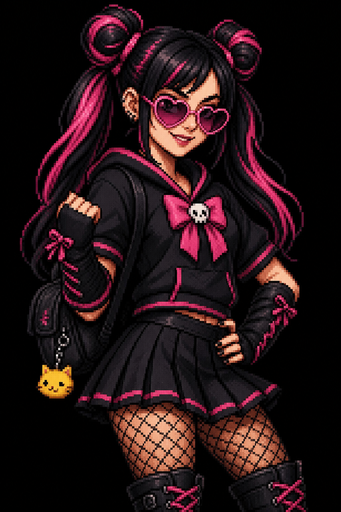
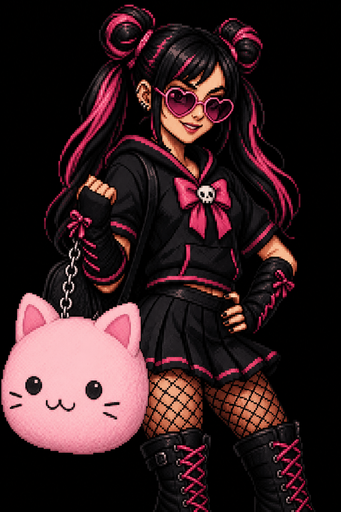
Make April's bag cat pastel pink and larger
Enlarges the backpack charm on her portrait and pixel sprite and
recolors it from yellow to soft pastel pink.

diff --git a/cat-fighter/js/pixel.js b/cat-fighter/js/pixel.js
@@ -601,6 +601,8 @@ export function paintApril(octx, t = 0, phase = 'dust') {
   const black = '#141018';
   const pink = '#ff4da6';
   const pinkHi = '#ff9ad4';
+  const pastel = '#ffc4e1';
+  const pastelHi = '#ffe6f3';
   const skin = '#f0c8b0';
   const boot = '#1a1218';
   // boots
@@ -629,6 +631,19 @@ export function paintApril(octx, t = 0, phase = 'dust') {
   r(34, 38 - arm, 8, 4, skin);
   r(6, 26, 8, 2, pink);
   r(34, 26 - arm, 8, 2, pink);
+  // backpack + oversized pastel-pink bag cat
+  r(4, 26, 10, 14, black);
+  r(4, 26, 10, 2, pink);
+  r(8, 24, 3, 4, '#888');
+  r(0, 34, 16, 14, pastel);
+  r(1, 35, 14, 12, pastelHi);
+  r(2, 32, 4, 4, pastel);
+  r(10, 32, 4, 4, pastel);
+  r(4, 38, 2, 2, '#141018');
+  r(10, 38, 2, 2, '#141018');
+  r(6, 41, 4, 2, '#ff4da6');
+  r(3, 40, 2, 1, '#141018');
+  r(11, 40, 2, 1, '#141018');
   // head
   r(16, 8, 16, 16, skin);
   // hair + space buns

diff --git a/cat-fighter/pixel.test.js b/cat-fighter/pixel.test.js
@@ -58,5 +58,8 @@ describe('April sprite', () => {
     expect(fills.length).toBeGreaterThan(12);
     expect(fills.some((f) => f.color === '#141018')).toBe(true);
     expect(fills.some((f) => f.color === '#ff4da6')).toBe(true);
+    expect(fills.some((f) => f.color === '#ffc4e1')).toBe(true);
+    const bagCat = fills.filter((f) => f.color === '#ffc4e1' || f.color === '#ffe6f3');
+    expect(Math.max(...bagCat.map((f) => f.w * f.h))).toBeGreaterThanOrEqual(16 * 14);
   });
 });
